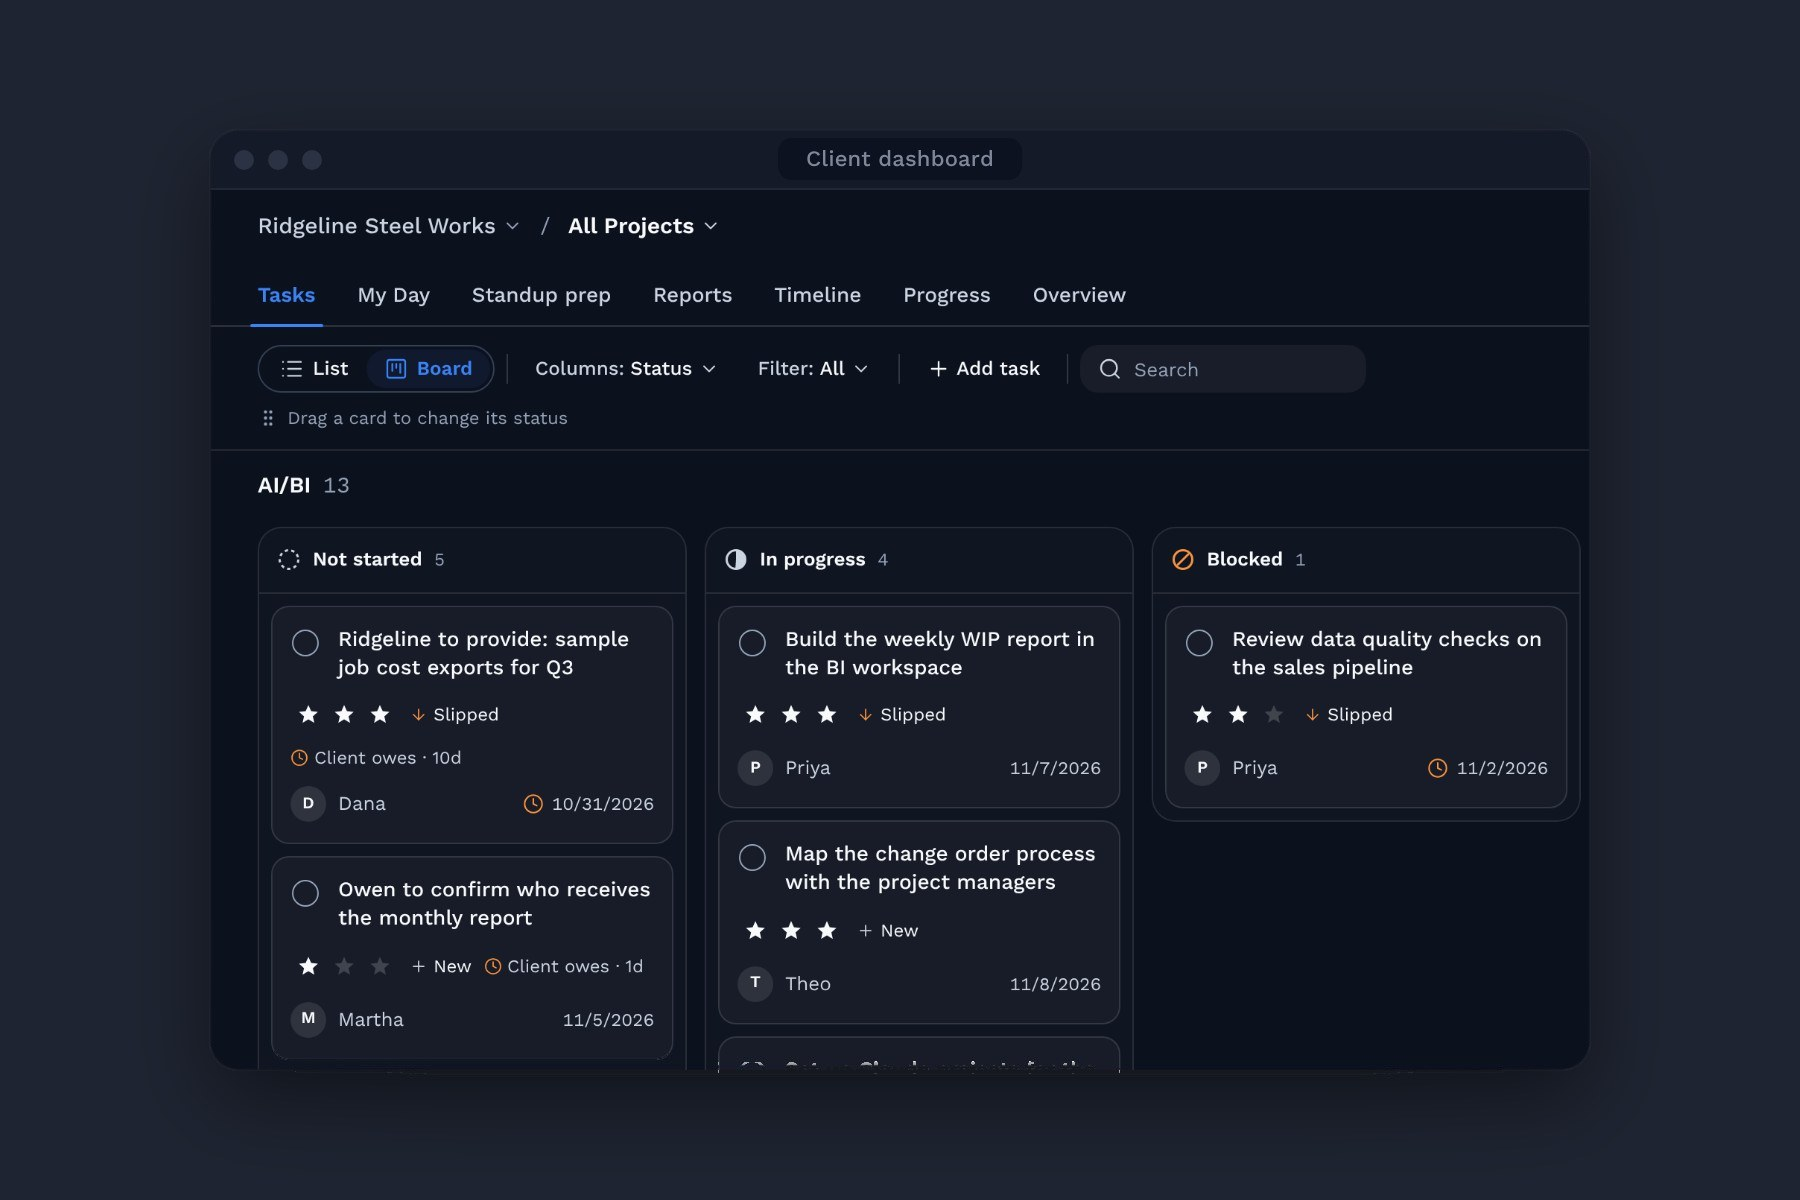
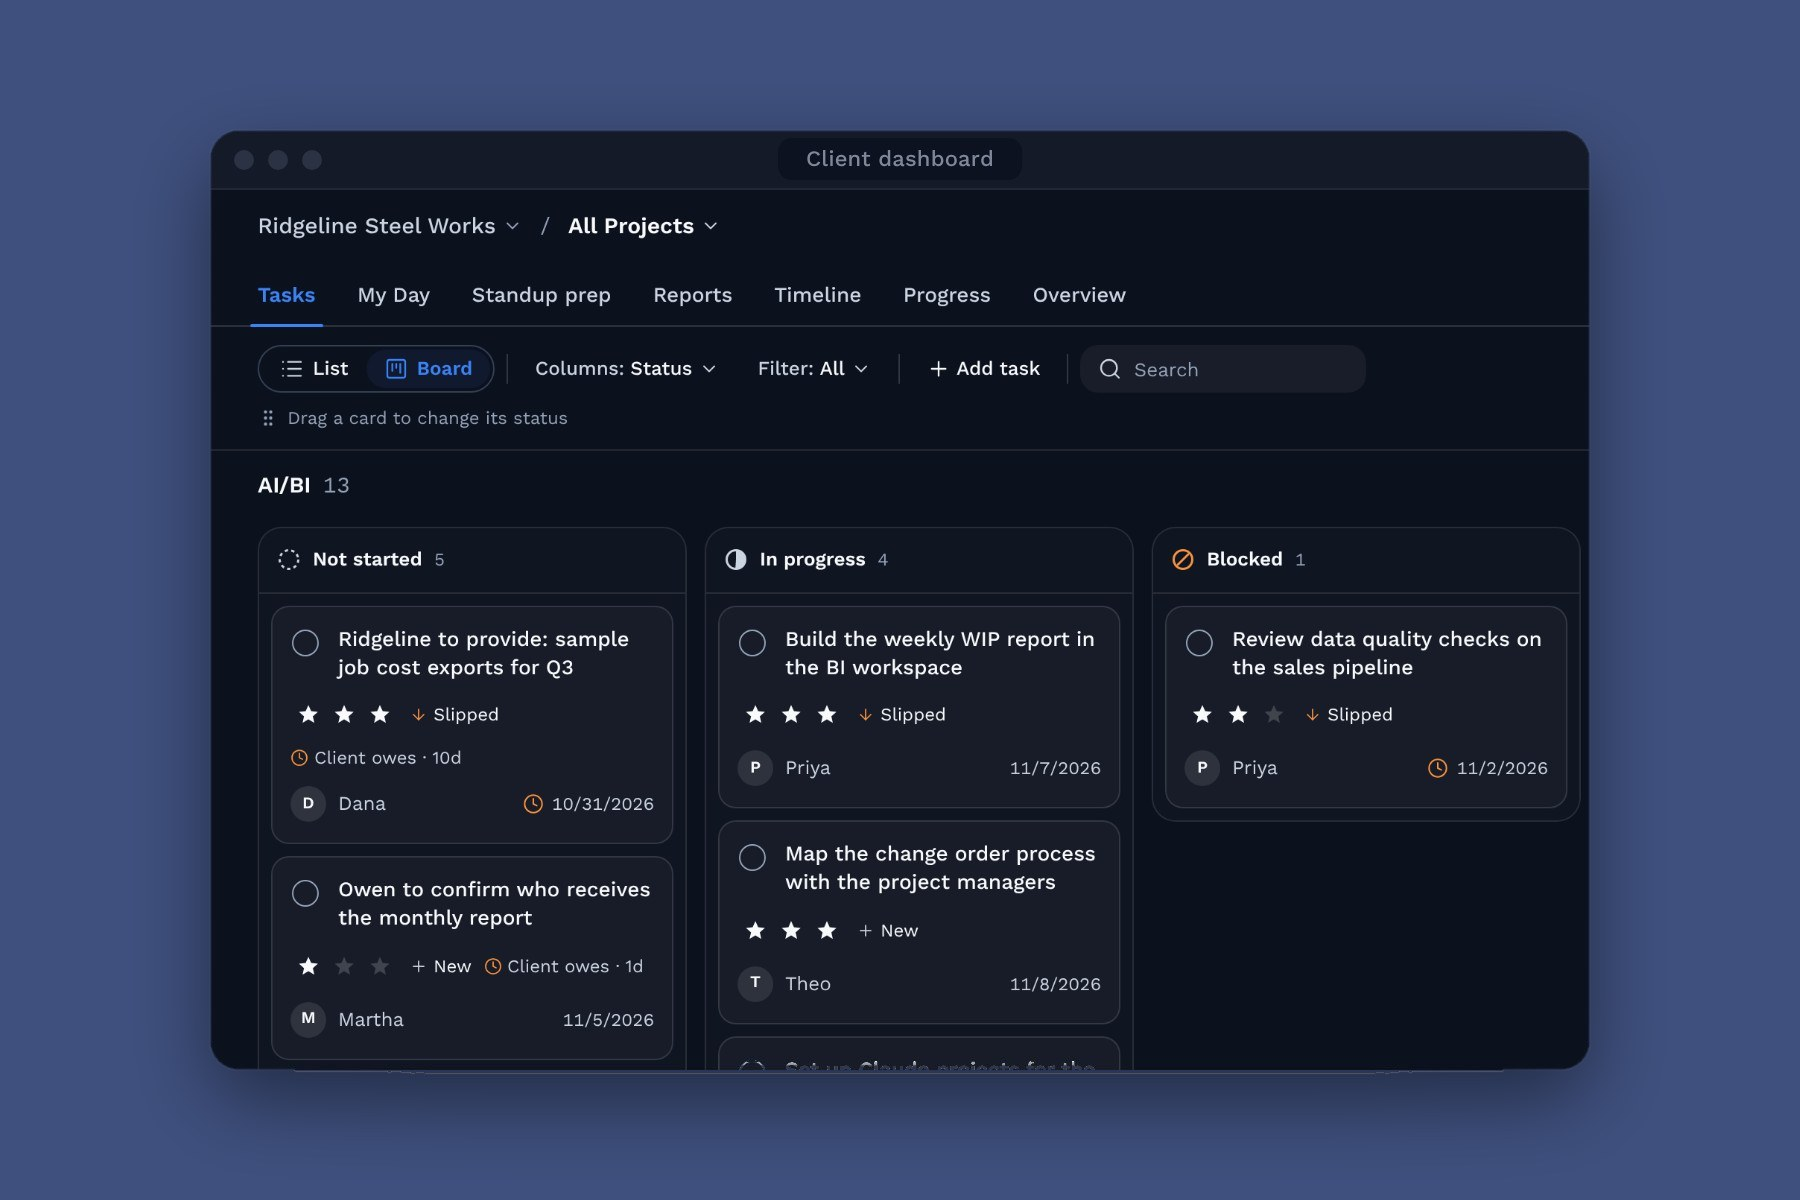
Lighten portrait wall and use a muted Cerino blue on the Consciens card
The portrait wall is now a light gray green close to the site's band
color. The Consciens card background is a muted version of Cerino's
brand blue.

diff --git a/index.html b/index.html
@@ -63,7 +63,7 @@
   </div>
   <div class="hero-v6-portrait reveal d2">
     <div class="portrait-wrap">
-      <img src="assets/images/martha-portrait-color.jpg" alt="Martha Asselin, product designer" class="portrait-img">
+      <img src="assets/images/martha-portrait-color.jpg?v=2" alt="Martha Asselin, product designer" class="portrait-img">
       <div class="portrait-overlay">
         <div class="portrait-card">
           <p class="portrait-detail">Based in Boulder, CO, working remotely</p>
@@ -79,7 +79,7 @@
 <section class="work2" id="work">
   <h2 class="t-heading">Selected Work</h2>
   <div class="wb-list"><a href="case-studies/client-dashboard.html" class="wc">
-  <div class="wc-img"><img src="assets/images/project-consciens-tint.jpg?v=4" alt="Consciens client project dashboard on desktop"></div>
+  <div class="wc-img"><img src="assets/images/project-consciens-tint.jpg?v=5" alt="Consciens client project dashboard on desktop"></div>
   <div class="wc-text">
     <h3 class="wc-title"><span>Consciens: A Live Client Project Dashboard</span></h3>
     <p class="wc-body">A project dashboard connected to Slack, Google Drive and email, where Claude drafts tasks from meeting transcripts and a person approves them.</p>
